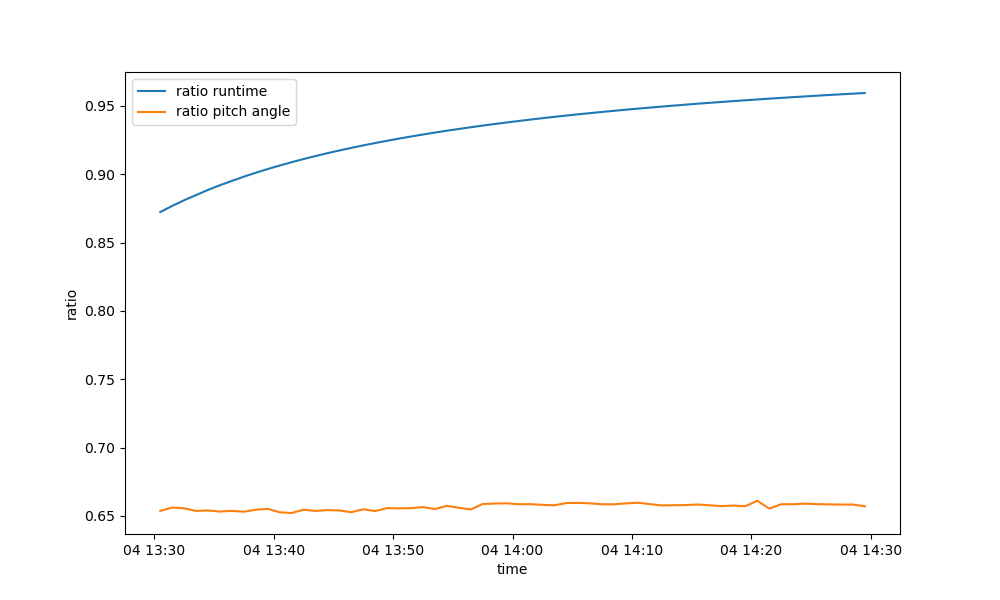
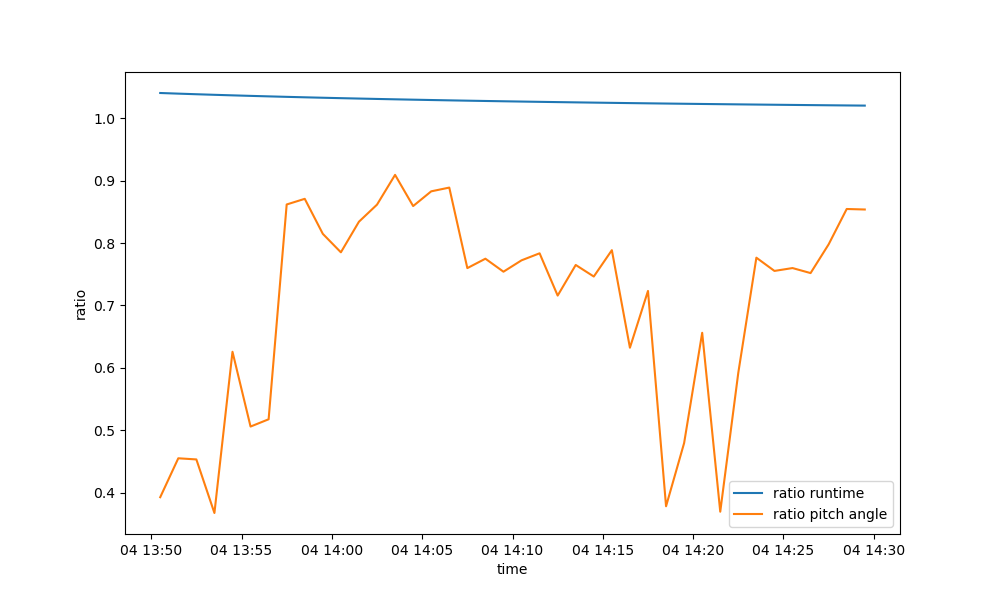
Irgendiwe noch Probleme mit den Piotchwinkeln bei den GIFs

diff --git a/STEP.py b/STEP.py
@@ -519,3 +519,126 @@ class STEP():
         plt.title('energy means')
         plt.legend()
         plt.savefig(rpath)
+        
+        
+        
+    def distribution_ring(self, filename, title, head, norm, period, grenzfunktion=None,below=True,box_list=None, norm_pixel=3, correction = False, save='gif/', res = '1min', overflow = True, esquare = False,window_width = 5, close=False, sorted_by_energy=False):
+        '''Darstellung von means der einzelnen Pixel und Pitchwinkel als GIF. Es soll die ringförmige Verteilung deutlich werden. Code basiert auf minütlichen Daten!!!'''
+        
+        # Berechnung der Energie-Mittelwerte und Mittelung der Pitchwinkel über Intervalle der Länge window_width
+        
+        # Maske, da ich nur die Magnetfelddaten innerhalb von period brauche:
+        mask = (self.mag.time >= period[0]) * (self.mag.time < period[1])
+        pw = [[] for i in range(15)]
+        
+        
+        # Berechnung der Energiemittelwerte
+        # pixel_list kann bei Aufruf von distribution_ring nicht verändert werden, da ich eh alle Pixel brauche...
+        pixel_means = self.calc_energy_means(ebins=ebins,res=res,head=head,period=period,grenzfunktion=grenzfunktion,below=below,box_list=box_list,window_width=window_width,pixel_list=[i for i in range(0,16)],norm=norm,overflow=overflow,esquare=esquare)
+            
+        # Berechnung der Pitchwinkel
+        i = 0
+        while (period[0] + dt.timedelta(minutes=(i+1)*window_width)) <= period[1]:
+            
+            for k in [i for i in range(1,16)]:
+                # Mittelung der Pitchwinkel (k-1, da ich keine Zeit im array stehen habe)
+                pw_data = self.mag.pitchangles[k-1][mask]
+                new_pw = np.sum(pw_data[i*window_width:(i+1)*window_width])/window_width
+                pw[k-1].append(new_pw)
+            i +=1
+            
+        if sorted_by_energy:
+            ind = np.argsort(pixel_means[norm_pixel])
+        else:
+            ind = np.array([i for i in range(len(pixel_means[norm_pixel]))])
+            
+        norm_factor = np.array(pixel_means[norm_pixel]) 
+        vmin = 1.0
+        vmax = 1.0
+        vmin_pw = 1.0
+        vmax_pw = 1.0
+        
+        for k in range(0,16):
+            if k == 0:
+                pixel_means[k] = np.array(pixel_means[k])
+            else:
+                pixel_means[k] = np.array(pixel_means[k])
+                pw[k-1] = np.array(pw[k-1])
+        
+        for k in range(1,16):
+            if correction:
+                corr = self.correction_pw(pw[norm_pixel-1],pw[k-1])
+            else:
+                corr = 1.0
+            pixel_means[k] = pixel_means[k]/norm_factor*corr
+            pw[k-1] = pw[k-1]*corr
+            if np.nanmax(pixel_means[k]) > vmax:
+                vmax = np.nanmax(pixel_means[k])
+            if np.nanmin(pixel_means[k]) < vmin:
+                vmin = np.nanmin(pixel_means[k])
+            if np.nanmax(pw[k-1]) > vmax_pw:
+                vmax_pw = np.nanmax(pw[k-1])
+            if np.nanmin(pw[k-1]) < vmin_pw:
+                vmin_pw = np.nanmin(pw[k-1])
+                    
+                    
+        
+        # Plotting
+        x_corners = [0,1,2,3,4,5]
+        y_corners = [0,1,2,3]
+        for k in range(len(pixel_means[1])):
+            
+            a = [pixel_means[j][ind][k] for j in range(1,6)]
+            b = [pixel_means[j][ind][k] for j in range(6,11)]
+            c = [pixel_means[j][ind][k] for j in range(11,16)]        
+            data_means = np.array([c,b,a])
+            
+            d = [pw[j-1][ind][k] for j in range(1,6)]
+            e = [pw[j-1][ind][k] for j in range(6,11)]
+            f = [pw[j-1][ind][k] for j in range(11,16)]  
+            pw_list = np.array([f,e,d])
+            
+            
+            fig, axes = plt.subplots(2,1,figsize=(10,12))
+            
+            ax = axes[0]
+            tmp = ax.pcolormesh(x_corners,y_corners,data_means,vmin=vmin,vmax=vmax)
+            plt.colorbar(tmp,label=f'mean of energy/(mean of energy of pixel {norm_pixel})')
+            ax.get_xaxis().set_visible(False)
+            ax.get_yaxis().set_visible(False)
+            
+            if sorted_by_energy == True:
+                ax.set_title(title + f'\n(head {head}, {window_width} minute steps, normed to pixel {norm_pixel})\nfrom ' + str(period[0]) + ' to ' + str(period[1]) + f'\n Mean Energy of Pixel {norm_pixel}: ' + str(round(norm_factor[ind][k],2)) + ' [keV]')
+            else:
+                ax.set_title(title + f'\n(head {head}, {window_width} minute steps, normed to pixel {norm_pixel})\nfrom ' + str(period[0]) + ' to ' + str(period[1]) + '\n Time: ' + str(pixel_means[0][ind][k]))
+            
+            
+            ax = axes[1]
+            tmp = ax.pcolormesh(x_corners,y_corners,pw_list,vmin=vmin_pw,vmax=vmax_pw)
+            plt.colorbar(tmp,label=r'pitch angle $\varphi$ [°]')
+            ax.get_xaxis().set_visible(False)
+            ax.get_yaxis().set_visible(False)
+            ax.set_title(r'Corresponding pitch angles $\varphi$ for the pixels')
+    
+    
+    
+            # Quick and dirty führende Nullen für korrekte Sortierung
+            if k < 10:
+                plt.savefig('gif_images/image0' + str(k) + '.png')
+            else:
+                plt.savefig('gif_images/image' + str(k) + '.png')
+            
+            if close:
+                plt.close('all')
+        
+        # Erstellen des GIF's
+        frames = []
+        imgs = glob.glob("gif_images/image*.png")
+        imgs.sort()
+        for i in imgs:
+            new_frame = Image.open(i)
+            frames.append(new_frame)
+
+        # Save the png images into a GIF file that loops forever
+        frames[0].save(save + f'{filename}.gif', format='GIF', append_images=frames[1:], save_all=True, duration=500, loop=0)
+        print('Created GIF successfully!')

diff --git a/Runtime.py b/Runtime.py
@@ -66,12 +66,13 @@ dat = STEP_Runtime(2021, 12, 4)
 # Daten auf Teil angeschränkt, der für Analyse relevant ist...
 
 box_list = [[[15,35],[30,38]],[[20,45],[25,30]],[[26,60],[20,25]],[[30,60],[15,20]],[[40,60],[10,15]],[[50,60],[3,10]]]
-period = (dt.datetime(2021,12,4,13,30),dt.datetime(2021,12,4,14,30))
+# period = (dt.datetime(2021,12,4,13,30),dt.datetime(2021,12,4,14,30))
+period =(dt.datetime(2021,12,4,13,50),dt.datetime(2021,12,4,14,30))
 
 # Alte Berechnung über alle Daten:
 
 def grenz(t):
-    return -0.5*t + 29
+    return -0.5*t + 20
 
 
 dat.plot_ts(period=period, head=-1, save='runtime_test2/', norm='tmax',grenzfunktion=grenz)
@@ -153,13 +154,13 @@ for j in range(1,16):
     ax2.plot(ts,run_time,label='run time (five minutes)',c='red')
     ax2.plot(ts2,run_time2,label='run time (one minute)',c='green')
     
-    plt.title(f'sliding mean; pixel {j}; 2021-12-04')
+    plt.title(f'pixel {j}; 2021-12-04')
     ax1.set_xlabel('unix time stamp [s]')
     ax1.set_ylabel(r'$v^{-1}~[\frac{\mathrm{s}}{\mathrm{m}}]$')
     ax2.set_ylabel(r'run time [s]')
     ax1.legend(loc='upper left')
     ax2.legend(loc='lower right')
-    plt.savefig(f'runtime_test2/test_runtime_sliding_window_pixel{j}_2021_12_04_adjust.png')
+    plt.savefig(f'runtime_test2/test_runtime_pixel{j}_2021_12_04_adjust.png')
     plt.close()
 
 plt.close('all')
@@ -173,11 +174,21 @@ plt.close('all')
 # =============================================================================
 
 
+
+dat.distribution_ring('time_series_energy_means_pw_2021_12_04','mean of energy (time series)',head=-1,norm='tmax',save='runtime_test2/',period=period,grenzfunktion=grenz,below=True)
+
+
+
+
+
 ### Schaue mir an, ob Laufzeitverhältnis zu Verhältnis der Pitchwinkel passt... ###
 
-# Vergleiche Pixel drei mit fünf; erstmal minütliche Zeitauflösung
+# Vergleiche Pixel drei mit dreizehn; erstmal minütliche Zeitauflösung
 i = 3
-j = 5
+j = 13
+
+dat.plot_energy_means(pixel_means,f'runtime_test2/energy_means_5_minutes_pixel{i}_2021_12_04_adjust.png',pixel_list=[i])
+dat.plot_energy_means(pixel_means2,f'runtime_test2/energy_means_1_minute_pixel{i}_2021_12_04_adjust.png',pixel_list=[i])
 
 dat.plot_energy_means(pixel_means,f'runtime_test2/energy_means_5_minutes_pixel_{i}_and_{j}_2021_12_04_adjust.png',pixel_list=[i,j])
 dat.plot_energy_means(pixel_means2,f'runtime_test2/energy_means_1_minute_pixel_{i}_and_{j}_2021_12_04_adjust.png',pixel_list=[i,j])
@@ -187,8 +198,9 @@ plt.close('all')
 pw_mask = (dat.mag.time >= period[0]) * (dat.mag.time < period[1])
 
 
+# Muss Cosinus-Ausdrücke ansehen...
 
-ratio_pitch = dat.mag.pitchangles[i][pw_mask]/dat.mag.pitchangles[j][pw_mask]
+ratio_pitch = np.cos(dat.mag.pitchangles[i][pw_mask])/np.cos(dat.mag.pitchangles[j][pw_mask])
 
 # Bestimme die Laufzeit nur, wenn für das entsprchende datetime-Objekt für beide Pixel ein Wert voliegt.
 # Sehr unschöne brute-force-Methode... Bin noch nicht glücklich...
@@ -197,9 +209,9 @@ time_ratio_runtime = []
 for count_i, datetime_object_i in enumerate(datetime_list_min[i]):
     for count_j, datetime_object_j in enumerate(datetime_list_min[j]):
         if (datetime_object_i == datetime_object_j):
-            ratio_runtime.append(runtime_list_min[j][count_j]/runtime_list_min[i][count_j])
+            ratio_runtime.append(runtime_list_min[j][count_j]/runtime_list_min[i][count_i])
             time_ratio_runtime.append(datetime_object_i)
-            break
+            # break
             
 
 
@@ -214,6 +226,7 @@ fig, ax = plt.subplots(figsize=(10,6))
 
 plt.plot(time_ratio_runtime,ratio_runtime,label='ratio runtime')
 plt.plot(ts_mag,ratio_pitch,label='ratio pitch angle')
+plt.title(f'ratios for pixels {i} and {j}')
 plt.xlabel('time')
 plt.ylabel('ratio')
 plt.legend()
